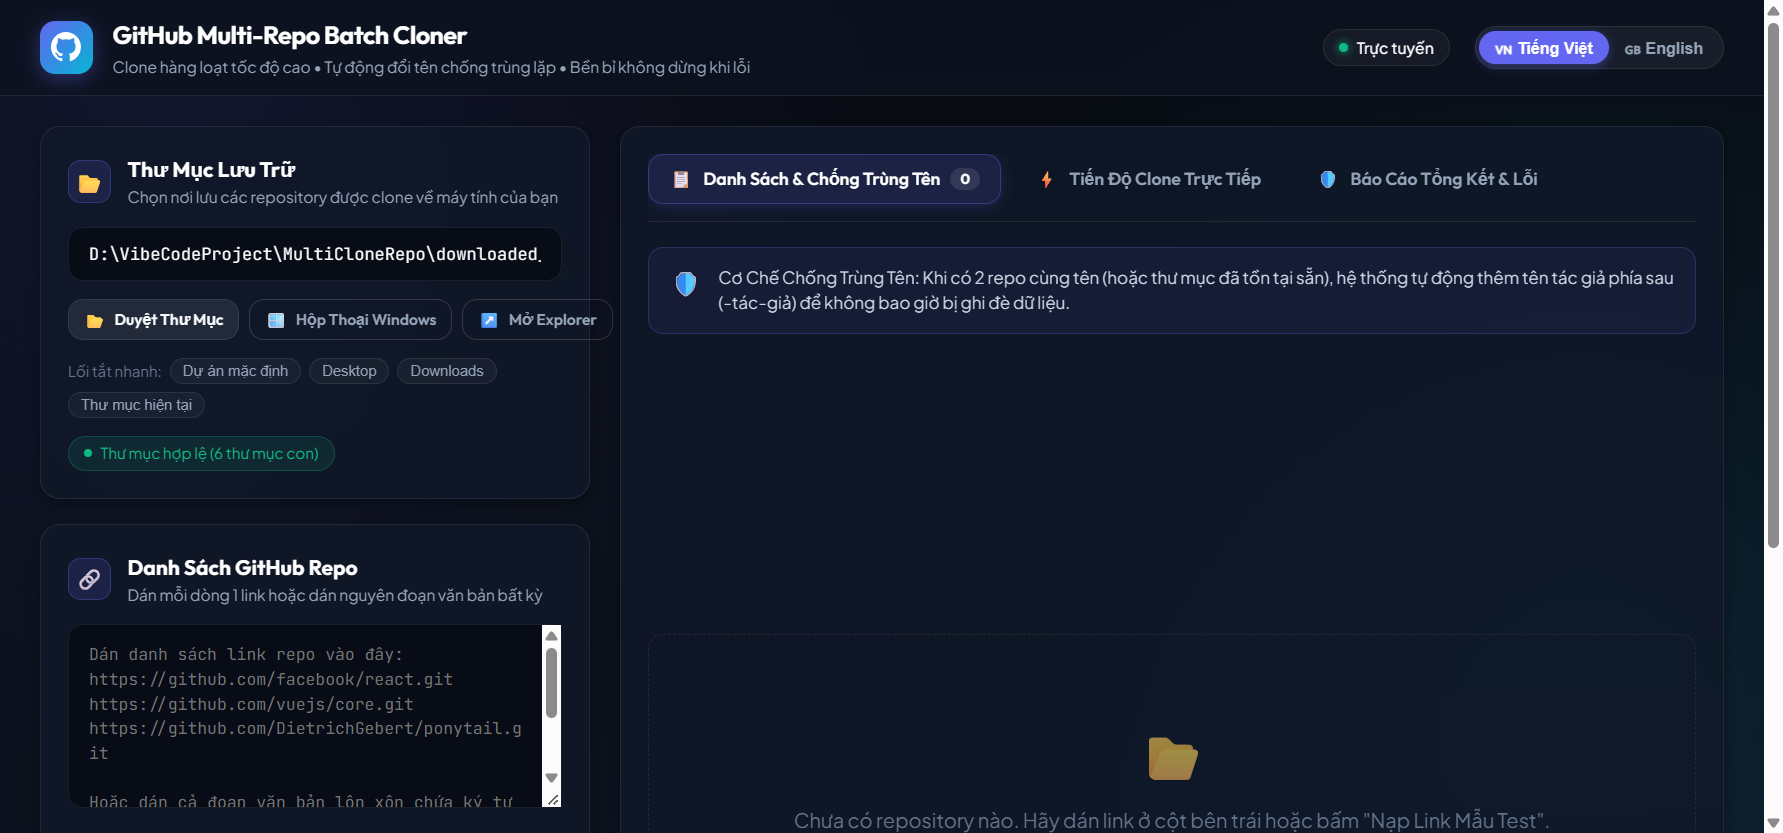
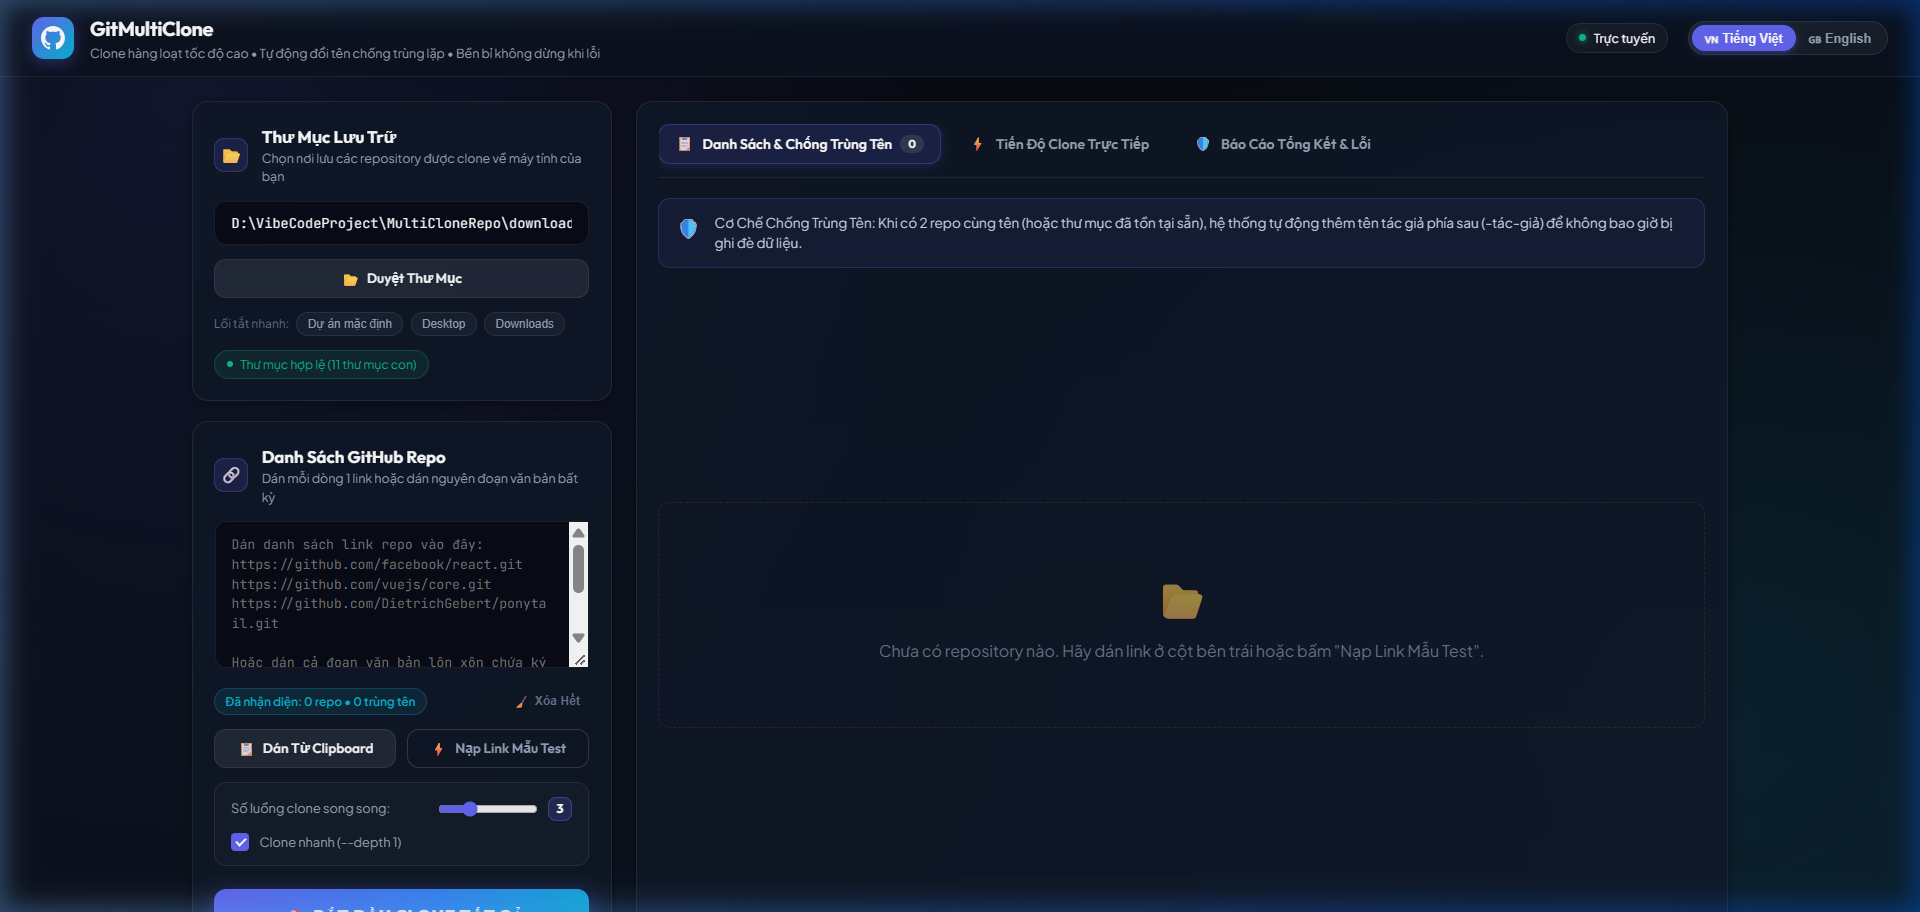
fix(ui): remove redundant folder buttons, balance textarea toolbar, fix layout overflow

diff --git a/public/index.html b/public/index.html
@@ -142,16 +142,10 @@
             <input type="text" id="targetFolderInput" class="app-input" data-i18n-placeholder="folderPlaceholder" placeholder="D:\Projects\Repos...">
           </div>
 
-          <!-- Folder Action Buttons -->
+          <!-- Single clean primary folder picker button -->
           <div class="folder-actions-row">
-            <button type="button" class="btn btn-secondary btn-sm" id="btnOpenWebFolderPicker" onclick="openFolderModal()">
-              📂 <span data-i18n="btnBrowseWeb">Duyệt Thư Mục</span>
-            </button>
-            <button type="button" class="btn btn-outline btn-sm" id="btnBrowseWin" onclick="browseFolderWindowsDialog()" title="Mở hộp thoại Windows Folder Browser">
-              🪟 <span data-i18n="btnBrowseWin">Hộp Thoại Windows</span>
-            </button>
-            <button type="button" class="btn btn-outline btn-sm" id="btnOpenExplorer" onclick="openTargetFolder()" title="Mở thư mục trong Windows Explorer">
-              ↗ <span data-i18n="btnOpenExplorer">Mở Explorer</span>
+            <button type="button" class="btn btn-secondary btn-full" id="btnOpenWebFolderPicker" onclick="openFolderModal()">
+              📂 <span data-i18n="btnBrowseWeb">Duyệt & Chọn Thư Mục</span>
             </button>
           </div>
 
@@ -161,7 +155,6 @@
             <button type="button" class="chip-preset" onclick="applyPreset('default')" data-i18n="presetDefault">Mặc định</button>
             <button type="button" class="chip-preset" onclick="applyPreset('desktop')" data-i18n="presetDesktop">Desktop</button>
             <button type="button" class="chip-preset" onclick="applyPreset('downloads')" data-i18n="presetDownloads">Downloads</button>
-            <button type="button" class="chip-preset" onclick="applyPreset('workspace')" data-i18n="presetWorkspace">Dự án</button>
           </div>
 
           <!-- Status indicator -->
@@ -185,21 +178,21 @@
             <textarea id="repoInputTextarea" class="app-textarea" rows="6" data-i18n-placeholder="inputPlaceholder" placeholder="Dán danh sách link repo vào đây..."></textarea>
           </div>
 
-          <!-- Live input stats -->
-          <div class="input-stats-bar">
+          <!-- Balanced meta bar: Status badge on left, clean Clear button on right -->
+          <div class="textarea-meta-bar">
             <span id="liveInputStatsText" class="stats-badge">0 repos</span>
+            <button type="button" class="btn-clear-link" onclick="clearInput()" title="Xóa toàn bộ nội dung">
+              🧹 <span data-i18n="btnClear">Xóa Hết</span>
+            </button>
           </div>
 
-          <!-- Quick Actions -->
-          <div class="input-tools-row">
-            <button type="button" class="btn btn-secondary btn-sm" onclick="pasteFromClipboard()">
+          <!-- 2 Main Action Buttons: 50% / 50% split, perfectly balanced -->
+          <div class="input-actions-grid">
+            <button type="button" class="btn btn-secondary btn-action-card" onclick="pasteFromClipboard()">
               📋 <span data-i18n="btnPaste">Dán Clipboard</span>
             </button>
-            <button type="button" class="btn btn-outline btn-sm" onclick="loadSampleRepos()">
-              ⚡ <span data-i18n="btnSample">Nạp Link Mẫu Test</span>
-            </button>
-            <button type="button" class="btn btn-ghost btn-sm" onclick="clearInput()">
-              🧹 <span data-i18n="btnClear">Xóa Hết</span>
+            <button type="button" class="btn btn-outline btn-action-card" onclick="loadSampleRepos()">
+              ⚡ <span data-i18n="btnSample">Nạp Link Mẫu</span>
             </button>
           </div>
 

diff --git a/public/style.css b/public/style.css
@@ -170,9 +170,9 @@ body {
 /* DASHBOARD 2-COLUMN GRID */
 .dashboard-grid {
   display: grid;
-  grid-template-columns: 440px 1fr;
+  grid-template-columns: 420px 1fr;
   gap: 1.5rem;
-  padding: 1.5rem 2rem;
+  padding: 1.5rem 2rem 3rem 2rem;
   max-width: 1600px;
   width: 100%;
   margin: 0 auto;
@@ -184,6 +184,11 @@ body {
   display: flex;
   flex-direction: column;
   gap: 1.25rem;
+  min-width: 0;
+}
+
+.dashboard-main {
+  min-width: 0;
 }
 
 .panel-box {
@@ -248,21 +253,32 @@ body {
 }
 
 .folder-actions-row {
-  display: grid;
-  grid-template-columns: 1fr 1fr 1fr;
+  display: flex;
+  width: 100%;
+}
+
+.btn-full {
+  width: 100%;
+  justify-content: center;
+  padding: 0.65rem 1rem;
+  font-size: 0.85rem;
+  font-weight: 600;
+  display: inline-flex;
+  align-items: center;
   gap: 0.5rem;
 }
 
 .presets-row {
   display: flex;
   align-items: center;
-  gap: 0.4rem;
-  flex-wrap: wrap;
+  gap: 0.45rem;
+  flex-wrap: nowrap;
 }
 
 .preset-label {
   font-size: 0.75rem;
   color: var(--text-dim);
+  white-space: nowrap;
 }
 
 .chip-preset {
@@ -271,14 +287,16 @@ body {
   border-radius: var(--radius-full);
   color: var(--text-muted);
   font-size: 0.74rem;
-  padding: 0.2rem 0.6rem;
+  padding: 0.25rem 0.65rem;
   cursor: pointer;
+  white-space: nowrap;
   transition: all 0.15s ease;
 }
 
 .chip-preset:hover {
   background: rgba(255, 255, 255, 0.1);
   color: #fff;
+  border-color: rgba(255, 255, 255, 0.2);
 }
 
 .folder-status-pill {
@@ -310,7 +328,7 @@ body {
   background: var(--accent-warning);
 }
 
-/* REPO TEXTAREA */
+/* REPO TEXTAREA & METADATA BAR */
 .app-textarea {
   width: 100%;
   background: var(--bg-input);
@@ -331,25 +349,64 @@ body {
   box-shadow: 0 0 10px rgba(99, 102, 241, 0.3);
 }
 
-.input-stats-bar {
+.textarea-meta-bar {
   display: flex;
-  justify-content: flex-end;
+  align-items: center;
+  justify-content: space-between;
+  gap: 0.5rem;
+  width: 100%;
 }
 
 .stats-badge {
-  font-size: 0.75rem;
+  font-size: 0.74rem;
   font-weight: 600;
   color: var(--accent-cyan);
   background: rgba(6, 182, 212, 0.1);
   border: 1px solid rgba(6, 182, 212, 0.25);
-  padding: 0.15rem 0.55rem;
+  padding: 0.2rem 0.65rem;
   border-radius: var(--radius-full);
+  display: inline-flex;
+  align-items: center;
+  gap: 0.35rem;
 }
 
-.input-tools-row {
-  display: flex;
-  gap: 0.5rem;
-  flex-wrap: wrap;
+.btn-clear-link {
+  background: transparent;
+  border: none;
+  color: var(--text-dim);
+  font-size: 0.76rem;
+  font-weight: 600;
+  cursor: pointer;
+  padding: 0.2rem 0.55rem;
+  border-radius: var(--radius-sm);
+  display: inline-flex;
+  align-items: center;
+  gap: 0.3rem;
+  transition: all 0.15s ease;
+}
+
+.btn-clear-link:hover {
+  color: var(--accent-danger);
+  background: rgba(239, 68, 68, 0.12);
+}
+
+.input-actions-grid {
+  display: grid;
+  grid-template-columns: 1fr 1fr;
+  gap: 0.65rem;
+  width: 100%;
+}
+
+.btn-action-card {
+  width: 100%;
+  justify-content: center;
+  padding: 0.65rem 0.8rem;
+  font-size: 0.82rem;
+  font-weight: 600;
+  white-space: nowrap;
+  display: inline-flex;
+  align-items: center;
+  gap: 0.4rem;
 }
 
 /* CLONE OPTIONS */

diff --git a/public/app.js b/public/app.js
@@ -429,7 +429,7 @@ function confirmModalFolderSelection() {
 // Native Windows Folder Browser Dialog (fallback)
 async function browseFolderWindowsDialog() {
   const btn = document.getElementById('btnBrowseWin');
-  btn.disabled = true;
+  if (btn) btn.disabled = true;
   showToast('Đang mở hộp thoại Windows...', 'info');
 
   try {
@@ -443,7 +443,7 @@ async function browseFolderWindowsDialog() {
     }
   } catch (e) {
   } finally {
-    btn.disabled = false;
+    if (btn) btn.disabled = false;
   }
 }
 
